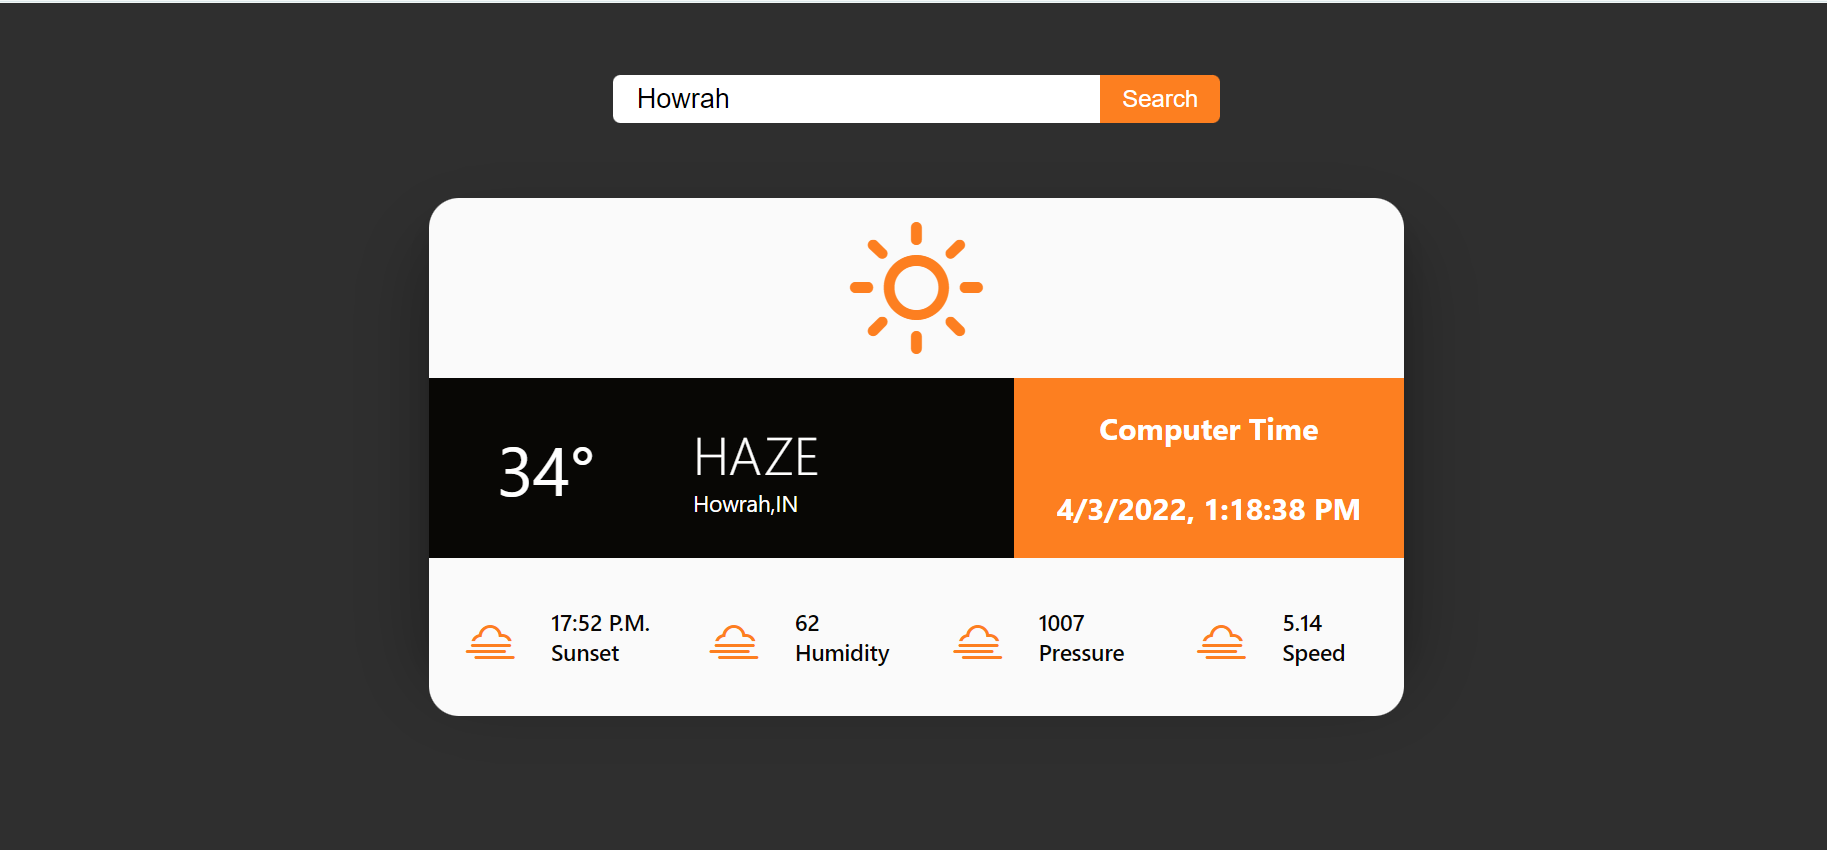
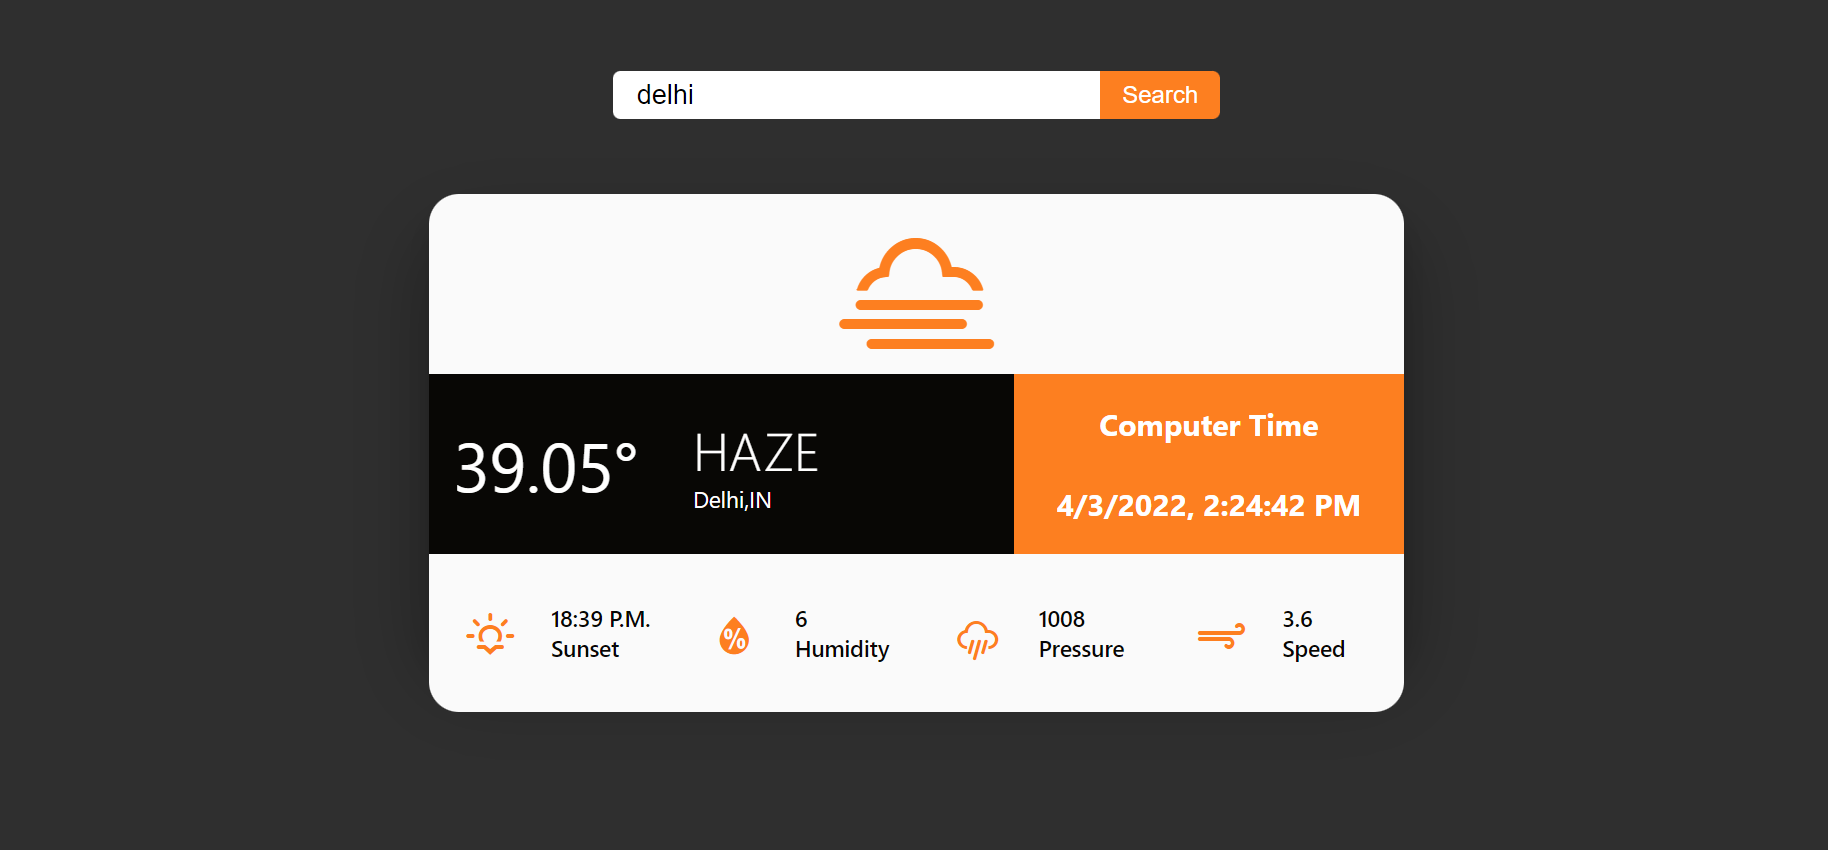
Change style.css

diff --git a/src/components/weather/weatherCard.js b/src/components/weather/weatherCard.js
@@ -46,7 +46,7 @@ const WeatherCard = ({ tempInfo }) => {
       <>
           <div className="widget">
               <div className="weatherIcon">
-                  <i className={"wi wi-day-sunny"}></i>
+                  <i className={`wi ${weatherState}`}></i>
               </div>
               <div className="weatherInfo">
                   <div className="temperature">
@@ -65,7 +65,7 @@ const WeatherCard = ({ tempInfo }) => {
                   <div className="temp-info-minmax">
                       <div className="two-sided-section">
                           <p>
-                              <i className={`wi ${weatherState}`}></i>
+                              <i className={"wi wi-sunset"}></i>
                           </p>
                           <p className="extra-info-leftside">
                               {timeStr} P.M.<br/>
@@ -74,7 +74,7 @@ const WeatherCard = ({ tempInfo }) => {
                       </div>
                       <div className="two-sided-section">
                           <p>
-                              <i className={`wi ${weatherState}`}></i>
+                              <i className={"wi wi-humidity"}></i>
                           </p>
                           <p className="extra-info-leftside">
                               {humidity}<br />
@@ -87,7 +87,7 @@ const WeatherCard = ({ tempInfo }) => {
                       
                        <div className="two-sided-section">
                           <p>
-                              <i className={`wi ${weatherState}`}></i>
+                              <i className={"wi wi-rain"}></i>
                           </p>
                           <p className="extra-info-leftside">
                               {pressure}<br />
@@ -96,7 +96,7 @@ const WeatherCard = ({ tempInfo }) => {
                       </div>
                        <div className="two-sided-section">
                           <p>
-                              <i className={`wi ${weatherState}`}></i>
+                              <i className={"wi wi-strong-wind"}></i>
                           </p>
                           <p className="extra-info-leftside">
                               {speed}<br/>Speed<br />
